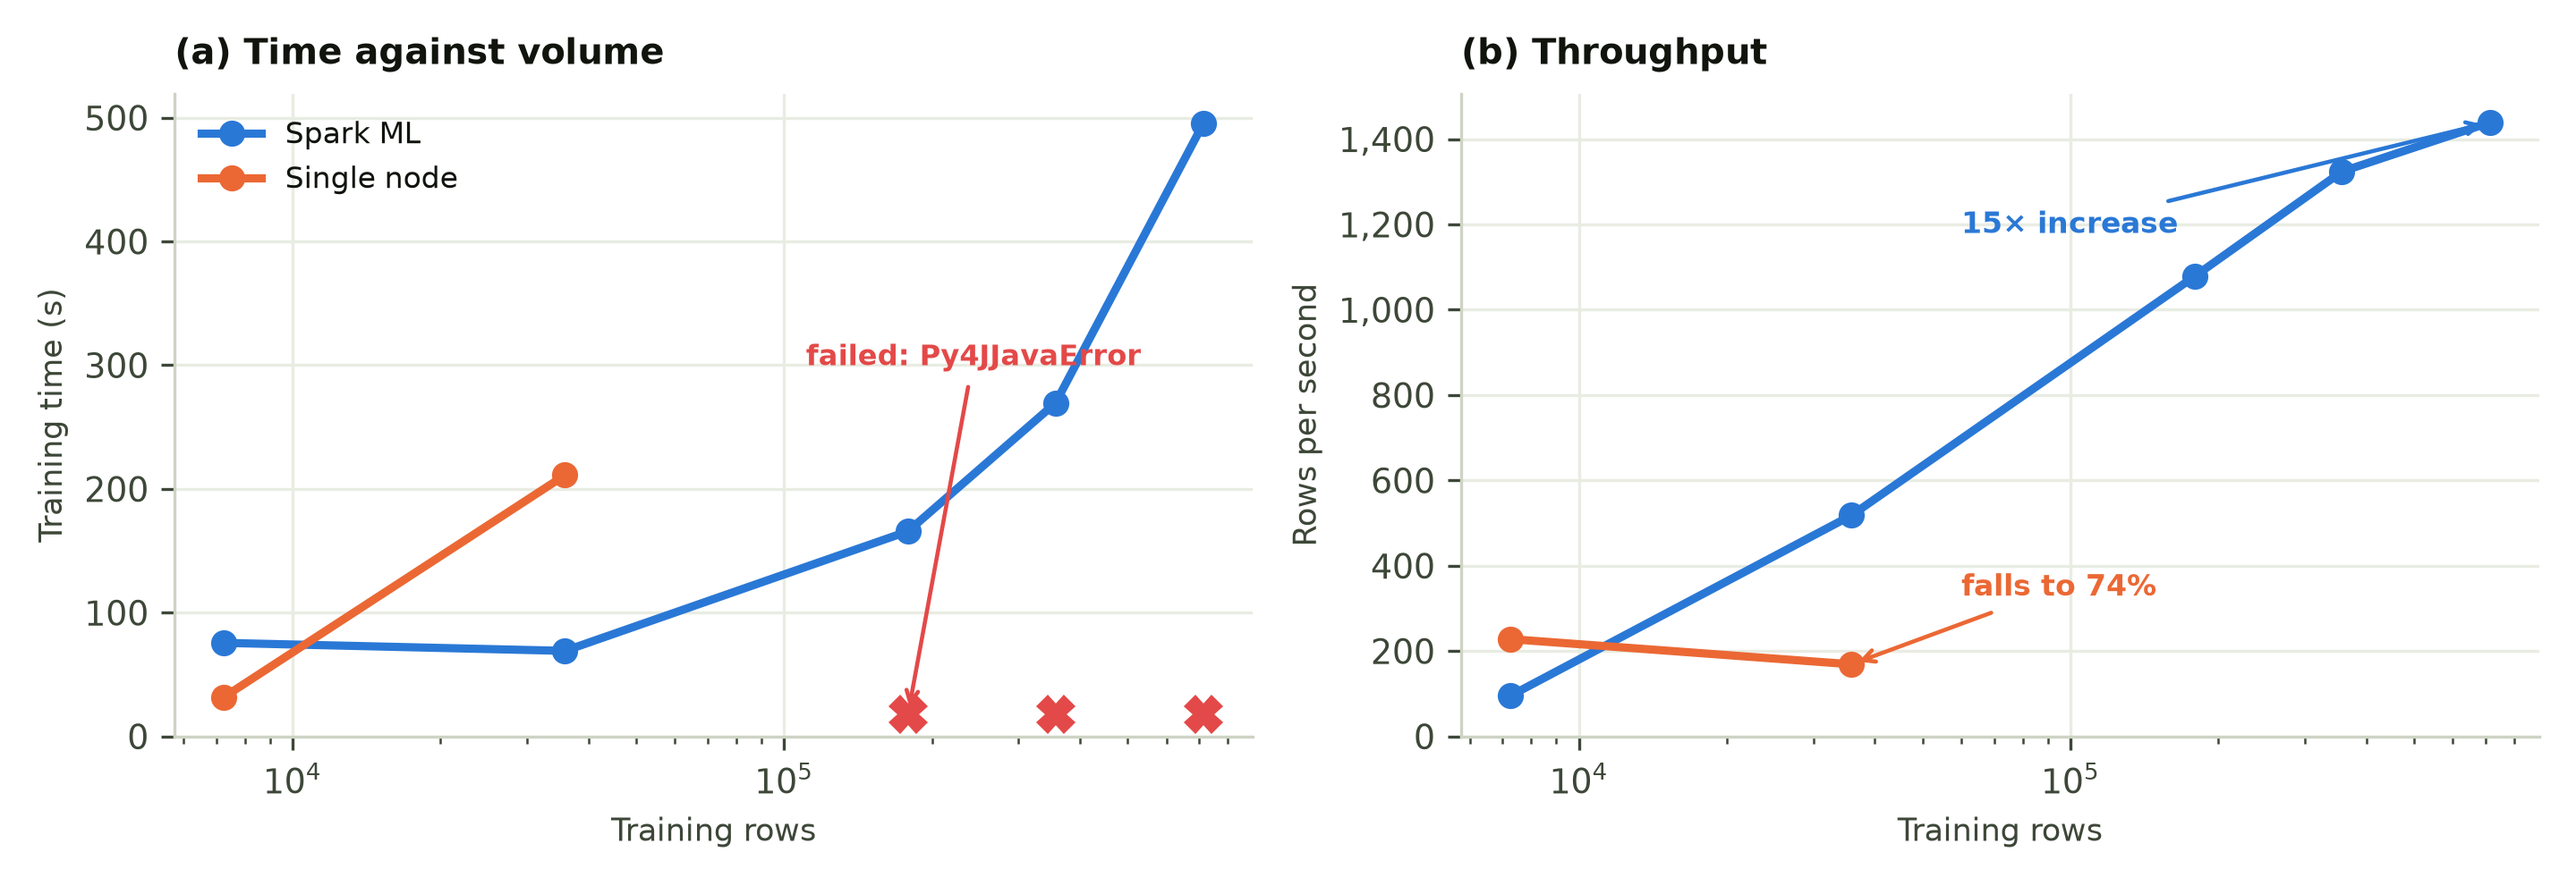
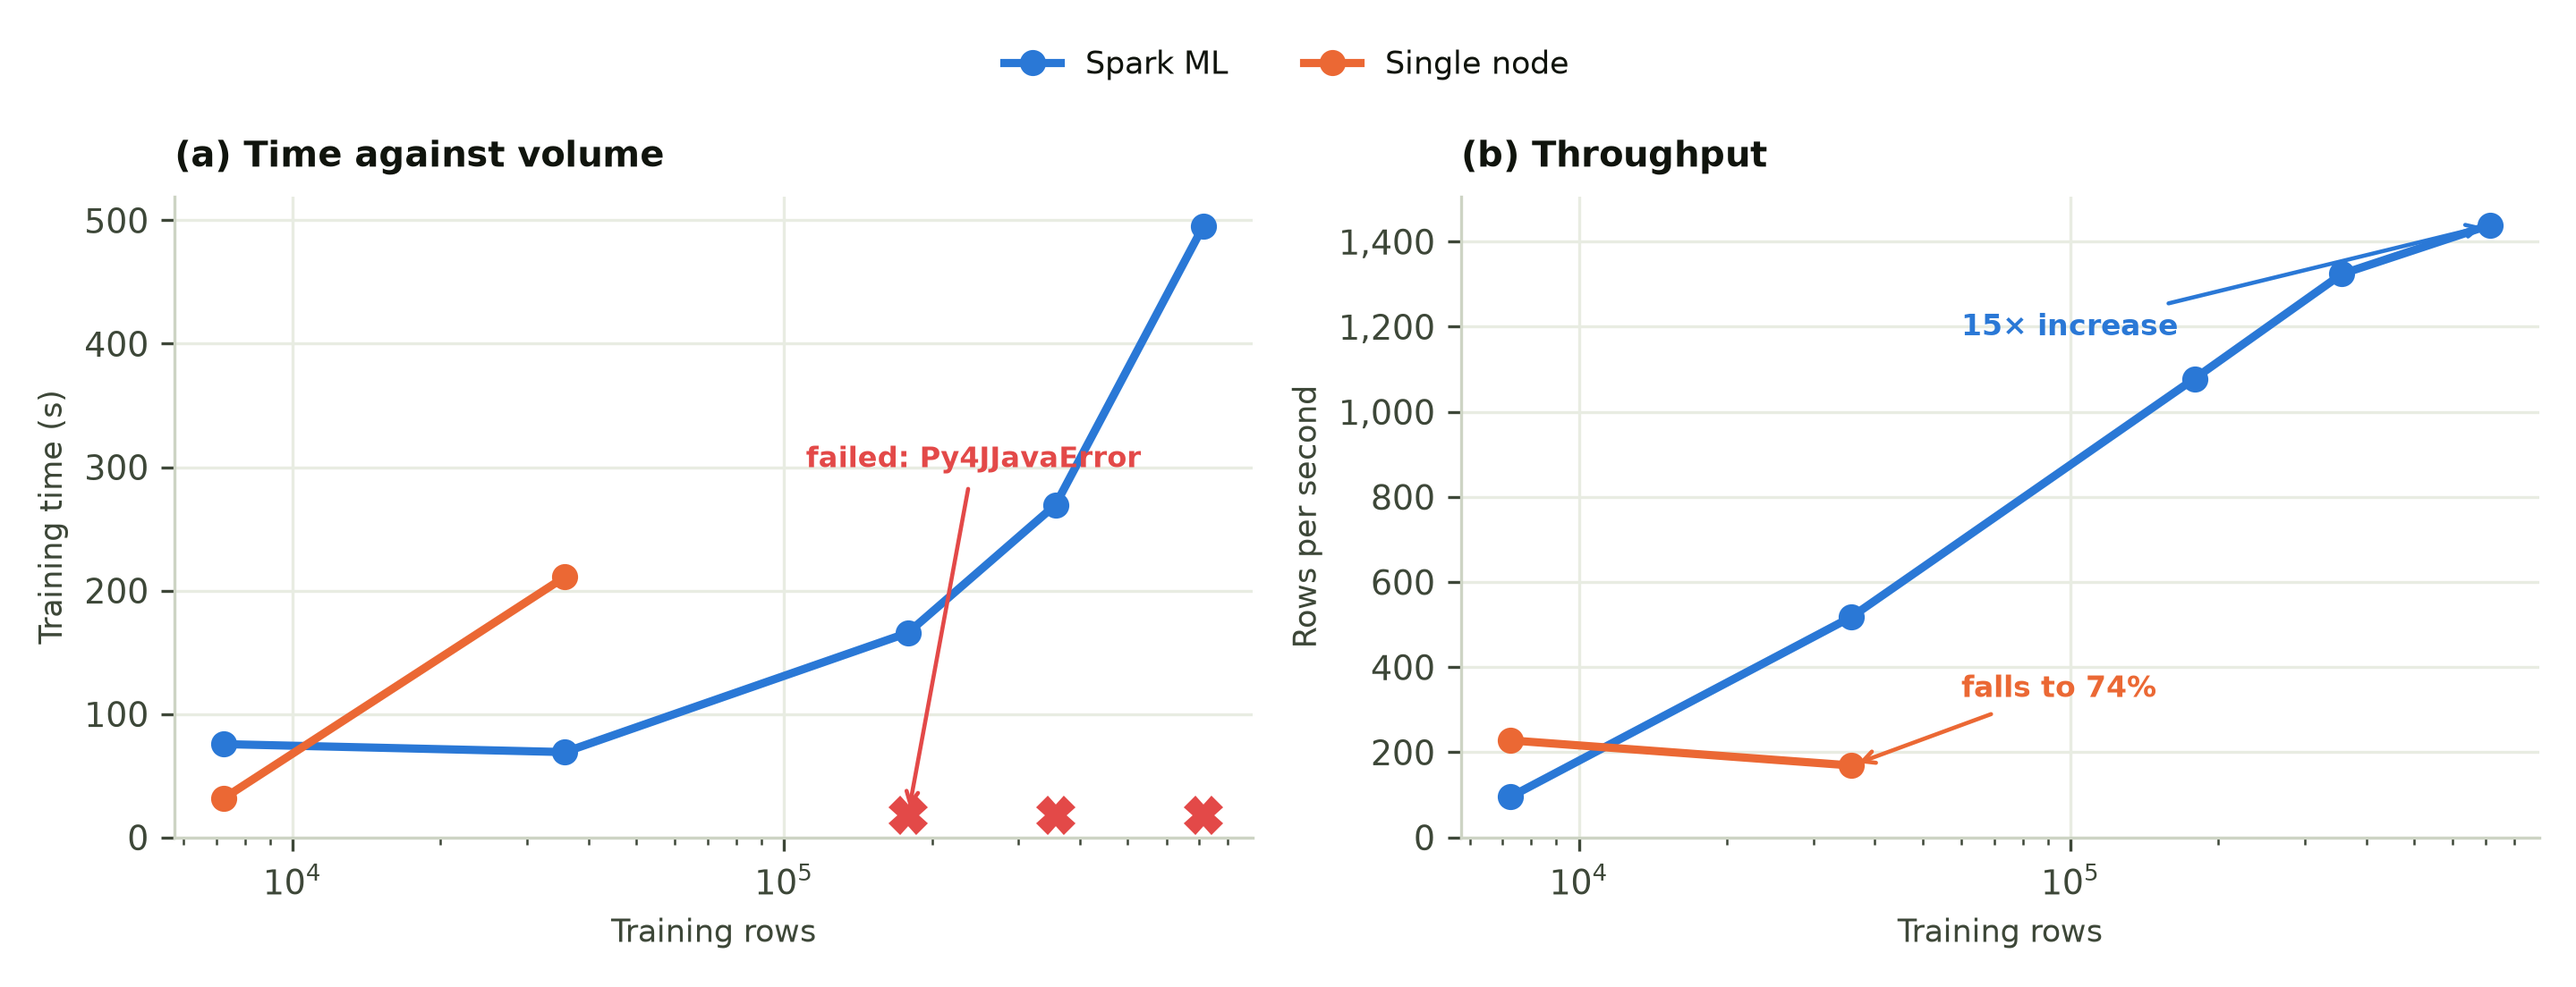
Legenda dan anotasi gambar tidak lagi menimpa data
Pada Figure 3 legenda berada di sudut kiri bawah panel kiri sehingga menimpa
batang Tugas A dan tidak terbaca. Legenda Figure 3 dan Figure 4 dipindahkan ke
atas kedua panel sebagai satu legenda bersama, karena kedua panel pada
masing-masing gambar memakai seri yang sama.

Pada Figure 6 label odds ratio gabungan menutupi garis tegak yang justru
ditandainya, lalu dipindahkan ke sudut kanan bawah yang kosong.

diff --git a/naskah/buat_gambar_hasil.py b/naskah/buat_gambar_hasil.py
@@ -121,7 +121,7 @@ def ambil(t, a, k):
     return np.nan
 
 
-fig, ax = plt.subplots(1, 2, figsize=(9.6, 3.4))
+fig, ax = plt.subplots(1, 2, figsize=(9.6, 3.7))
 w = 0.78 / len(algo)
 xs = np.arange(len(tugas))
 for i, a in enumerate(algo):
@@ -134,9 +134,8 @@ for i, a in enumerate(algo):
                    ha="center", fontsize=6.2, color=TINTA_2, rotation=90)
 ax[0].set_xticks(xs)
 ax[0].set_xticklabels([NAMA_T[t] for t in tugas])
-ax[0].set_ylim(0, 1.16)
+ax[0].set_ylim(0, 1.18)
 ax[0].grid(axis="x", visible=False)
-ax[0].legend(fontsize=7.6, ncol=1, loc="lower left")
 rapi(ax[0], None, "Macro F1", "(a) Macro F1 by task and algorithm")
 
 for i, a in enumerate(algo):
@@ -159,7 +158,12 @@ ax[1].set_ylim(0.0008, 14)
 ax[1].set_yscale("log")
 ax[1].grid(axis="x", visible=False)
 rapi(ax[1], None, "Log loss (log scale)", "(b) Log loss against random guessing")
-fig.tight_layout()
+# satu legenda bersama di atas kedua panel, supaya tidak menimpa batang
+pegangan, label = ax[0].get_legend_handles_labels()
+fig.legend(pegangan, label, loc="upper center", ncol=len(algo), fontsize=8.4,
+           frameon=False, bbox_to_anchor=(.5, 1.0), handlelength=1.4,
+           columnspacing=2.2)
+fig.tight_layout(rect=[0, 0, 1, .915])
 simpan(fig, "gambar3-klasifikasi.png",
        "Macro F1 and log loss of nine models")
 
@@ -170,7 +174,7 @@ baris = [int(float(x["n_latih"])) for x in sp]
 sk_b = [int(float(x["n_latih"])) for x in sk if x["n_latih"]]
 gagal = [baris[i] for i, x in enumerate(sk) if not x["detik"]]
 
-fig, ax = plt.subplots(1, 2, figsize=(9.6, 3.3))
+fig, ax = plt.subplots(1, 2, figsize=(9.6, 3.6))
 ax[0].plot(baris, [float(x["detik"]) for x in sp], marker="o", color=D1,
            linewidth=2.2, label="Spark ML")
 ax[0].plot(sk_b, [float(x["detik"]) for x in sk if x["detik"]], marker="o",
@@ -184,7 +188,6 @@ ax[0].annotate("failed: Py4JJavaError", xy=(gagal[0], 18),
                arrowprops=dict(arrowstyle="->", color=D8, lw=1.1))
 ax[0].set_xscale("log")
 ax[0].set_ylim(bottom=0)
-ax[0].legend(fontsize=8)
 rapi(ax[0], "Training rows", "Training time (s)", "(a) Time against volume")
 
 ax[1].plot(baris, [float(x["throughput_baris_per_detik"]) for x in sp],
@@ -207,7 +210,11 @@ ax[1].set_xscale("log")
 ax[1].set_ylim(bottom=0)
 ax[1].yaxis.set_major_formatter(FuncFormatter(ribu))
 rapi(ax[1], "Training rows", "Rows per second", "(b) Throughput")
-fig.tight_layout()
+pegangan, label = ax[0].get_legend_handles_labels()
+fig.legend(pegangan, label, loc="upper center", ncol=2, fontsize=8.4,
+           frameon=False, bbox_to_anchor=(.5, 1.0), handlelength=1.8,
+           columnspacing=2.4)
+fig.tight_layout(rect=[0, 0, 1, .915])
 simpan(fig, "gambar4-penskalaan.png",
        "Training time and throughput against data volume")
 
@@ -298,9 +305,9 @@ ax[1].set_yticklabels(["%s %s" % (s["wil"], int(s["dekade"])) for s in st],
 ax[1].set_xscale("log")
 ax[1].set_xlim(.4, 400)
 ax[1].grid(axis="y", visible=False)
-ax[1].text(.02, .97, "Pooled Mantel-Haenszel OR\n10.86  (95% CI 9.69 to 12.17)",
+ax[1].text(.98, .05, "Pooled Mantel-Haenszel OR\n10.86  (95% CI 9.69 to 12.17)",
            transform=ax[1].transAxes, fontsize=7.4, color=D8,
-           fontweight="bold", va="top", ha="left",
+           fontweight="bold", va="bottom", ha="right",
            bbox=dict(boxstyle="round,pad=0.3", facecolor=PUTIH,
                      edgecolor="none", alpha=.92))
 ax[1].text(1.08, .2, "OR = 1", fontsize=7, color=TINTA_3, ha="left")
